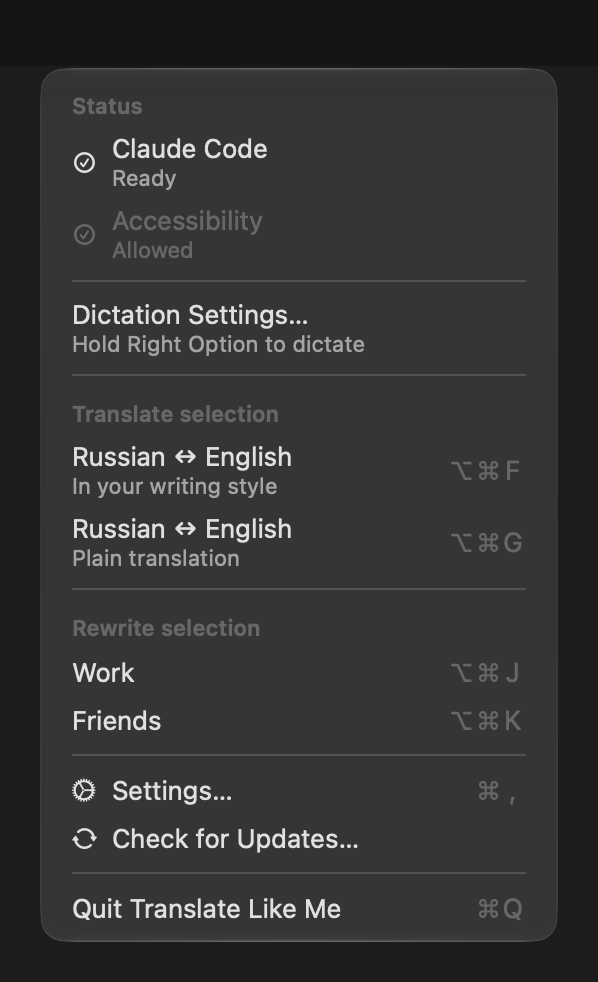
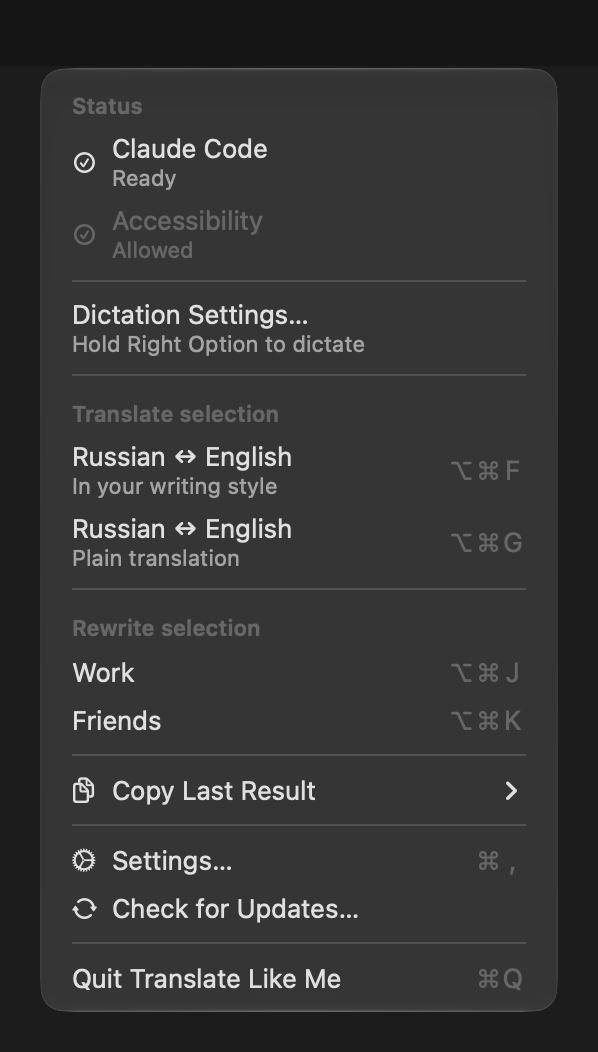
Add shared recovery for translation, rewrite and dictation results

diff --git a/Sources/TranslateLikeMe/StatusMenu.swift b/Sources/TranslateLikeMe/StatusMenu.swift
@@ -18,7 +18,13 @@ final class StatusMenu: NSObject, NSMenuDelegate {
     private var engineCheck: Task<Void, Never>?
     private weak var engineItem: NSMenuItem?
 
-    override init() {
+    private let results: LastResults
+    private let copyResult: (String) -> Void
+
+    init(results: LastResults = .shared,
+         copyResult: @escaping (String) -> Void = { SelectionService.copyToClipboard($0) }) {
+        self.results = results
+        self.copyResult = copyResult
         super.init()
         menu.delegate = self
         menu.autoenablesItems = false
@@ -56,9 +62,6 @@ final class StatusMenu: NSObject, NSMenuDelegate {
                                       comment: "Menu subtitle; the placeholder is a key, such as Right Option")
         }
         menu.addItem(dictate)
-        if dictation.lastResult != nil {
-            menu.addItem(item(String(localized: "Copy Last Dictation"), action: #selector(copyLastDictation)))
-        }
 
         // The app's key action: one item per language pair, showing its shortcut.
         menu.addItem(.separator())
@@ -79,6 +82,9 @@ final class StatusMenu: NSObject, NSMenuDelegate {
             menu.addItem(.sectionHeader(title: String(localized: "Rewrite selection")))
             for preset in presets { menu.addItem(rewriteItem(preset)) }
         }
+
+        menu.addItem(.separator())
+        menu.addItem(lastResultsItem())
 
         // macOS 26 gives Settings… its standard gear icon, so its group gets an
         // icon on every item (HIG: uniform treatment within a group).
@@ -226,8 +232,27 @@ final class StatusMenu: NSObject, NSMenuDelegate {
         }
     }
 
-    @objc private func copyLastDictation() {
-        if let text = DictationController.shared.lastResult { SelectionService.copyToClipboard(text) }
+    // Always show all three actions so availability never changes their order.
+    func lastResultsItem() -> NSMenuItem {
+        let parent = NSMenuItem(title: String(localized: "Copy Last Result"), action: nil, keyEquivalent: "")
+        parent.image = NSImage(systemSymbolName: "doc.on.doc", accessibilityDescription: nil)
+        showsImage(parent)
+        let submenu = NSMenu()
+        submenu.autoenablesItems = false
+        for kind in PopupController.ResultKind.allCases {
+            let row = item(kind.copyTitle, action: #selector(copyLastResult(_:)))
+            row.representedObject = kind
+            row.isEnabled = results[kind] != nil
+            submenu.addItem(row)
+        }
+        parent.submenu = submenu
+        return parent
+    }
+
+    @objc private func copyLastResult(_ sender: NSMenuItem) {
+        guard let kind = sender.representedObject as? PopupController.ResultKind,
+              let text = results[kind] else { return }
+        copyResult(text)
     }
 
     @objc private func requestAccessibility() { SelectionService.promptForAccessibility() }

diff --git a/Sources/TranslateLikeMe/DictationController.swift b/Sources/TranslateLikeMe/DictationController.swift
@@ -35,7 +35,9 @@ final class DictationController {
     private(set) var progress: Double = 0
     private(set) var level: Double = 0
     private(set) var error: String?
-    private(set) var lastResult: String?
+    var lastResult: String? { results[.dictation] }
+
+    @ObservationIgnored private let results: LastResults
 
     @ObservationIgnored private let engine: any DictationRecognizing
     @ObservationIgnored private let recorder: any DictationRecording
@@ -51,20 +53,21 @@ final class DictationController {
 
     init(enabled: Bool, model: DictationModel = .turbo,
          engine: any DictationRecognizing, recorder: any DictationRecording,
-         interaction: DictationInteraction,
+         interaction: DictationInteraction, results: LastResults = LastResults(),
          saveModel: @escaping (DictationModel) -> Void = { Settings.dictationModel = $0 }) {
         self.enabled = enabled
         self.model = model
         self.engine = engine
         self.recorder = recorder
         self.interaction = interaction
+        self.results = results
         self.saveModel = saveModel
     }
 
     private convenience init() {
         self.init(enabled: Settings.dictationEnabled, model: Settings.dictationModel,
                   engine: DictationEngine(), recorder: DictationRecorder(),
-                  interaction: .live)
+                  interaction: .live, results: .shared)
         let source = DispatchSource.makeMemoryPressureSource(eventMask: [.warning, .critical], queue: .main)
         source.setEventHandler { [weak self] in
             MainActor.assumeIsolated {
@@ -232,7 +235,7 @@ final class DictationController {
                         session.transition(.ready, for: id)
                         return
                     }
-                    lastResult = text
+                    results.record(text, kind: .dictation)
                     let delivered = try await interaction.deliver?(text) ?? false
                     guard session.accepts(id, in: .recognizing), !Task.isCancelled else { return }
                     if !delivered { interaction.showResult(text) }

diff --git a/Tests/TranslateLikeMeTests/LastResultsTests.swift b/Tests/TranslateLikeMeTests/LastResultsTests.swift
@@ -1,0 +1,37 @@
+import AppKit
+import XCTest
+@testable import TranslateLikeMe
+
+@MainActor
+final class LastResultsTests: XCTestCase {
+    func testMenuKeepsMissingResultsVisibleAndCopiesEachActionIndependently() {
+        _ = NSApplication.shared
+        let results = LastResults()
+        var copied: [String] = []
+        let menu = StatusMenu(results: results, copyResult: { copied.append($0) })
+        let empty = menu.lastResultsItem()
+        XCTAssertTrue(empty.isEnabled)
+        XCTAssertEqual(empty.submenu?.items.map(\.isEnabled), [false, false, false])
+        results.record("Перевод", kind: .translation)
+        results.record("Rewritten message", kind: .message)
+        results.record("Spoken notes", kind: .dictation)
+        results.record("New translation", kind: .translation)
+        let rows = menu.lastResultsItem().submenu!.items
+        XCTAssertEqual(rows.map(\.title), ["Translation", "Rewrite", "Dictation"])
+        XCTAssertEqual(rows.map(\.isEnabled), [true, true, true])
+        for row in rows {
+            XCTAssertTrue(NSApp.sendAction(row.action!, to: row.target, from: row))
+        }
+        XCTAssertEqual(copied, ["New translation", "Rewritten message", "Spoken notes"])
+        results.record(" \n", kind: .translation)
+        XCTAssertEqual(results[.translation], "New translation")
+        XCTAssertNil(LastResults()[.translation], "A new session has no persisted results")
+    }
+
+    func testPartialMenuDoesNotDependOnDictationBeingEnabled() {
+        let results = LastResults()
+        results.record("Translation only", kind: .translation)
+        let menu = StatusMenu(results: results, copyResult: { _ in })
+        XCTAssertEqual(menu.lastResultsItem().submenu?.items.map(\.isEnabled), [true, false, false])
+    }
+}

diff --git a/Tests/TranslateLikeMeTests/DictationControllerTests.swift b/Tests/TranslateLikeMeTests/DictationControllerTests.swift
@@ -63,15 +63,17 @@ final class DictationControllerTests: XCTestCase {
             let engine = ControlledDictationEngine()
             engine.transcript = "Привет, world!"
             let recorder = ControlledDictationRecorder()
+            let results = LastResults()
             var deliveries: [String] = []
             var shown: [String] = []
             let controller = DictationController(enabled: true, engine: engine, recorder: recorder,
                 interaction: DictationInteraction(endCapture: {}, showError: { _ in },
                                                   showResult: { shown.append($0) }, deliver: {
+                    XCTAssertEqual(results[.dictation], $0, "Retain before attempting delivery")
                     deliveries.append($0)
                     XCTAssertTrue(TranslationActivity.shared.isBusy, "Capture owns activity through delivery")
                     return delivered
-                }), saveModel: { _ in })
+                }), results: results, saveModel: { _ in })
             controller.restore()
             await controller.operation?.value
             controller.shortcutPressed()
@@ -79,7 +81,7 @@ final class DictationControllerTests: XCTestCase {
             await controller.operation?.value
             XCTAssertEqual(deliveries, ["Привет, world!"])
             XCTAssertEqual(shown, delivered ? [] : ["Привет, world!"])
-            XCTAssertEqual(controller.lastResult, "Привет, world!")
+            XCTAssertEqual(results[.dictation], "Привет, world!")
             XCTAssertEqual(controller.phase, .ready)
             XCTAssertFalse(TranslationActivity.shared.isBusy)
         }

diff --git a/Tests/TranslateLikeMeTests/SelectionWorkflowTests.swift b/Tests/TranslateLikeMeTests/SelectionWorkflowTests.swift
@@ -78,6 +78,27 @@ final class SelectionWorkflowTests: XCTestCase {
         XCTAssertEqual(access.state.withLock { $0.clipboard }, "original clipboard")
     }
 
+    @MainActor
+    func testCompletedResultIsRetainedBeforeBothReadAndUnreadDelivery() async throws {
+        for read in [false, true] {
+            let access = FakePasteAccess()
+            if read { access.state.withLock { $0.readDelay = .milliseconds(100) } }
+            let results = LastResults()
+            let subject = SelectionWorkflow(access: access, didProduceResult: { text in
+                XCTAssertEqual(access.state.withLock { $0.pastes.count }, 0)
+                await results.record(text, kind: .translation)
+            }, pause: { access.advance($0) })
+            let outcome = try await subject.run { _ in "Готовый перевод" }
+            XCTAssertEqual(outcome, read ? .pasted : .result("Готовый перевод"))
+            XCTAssertEqual(results[.translation], "Готовый перевод")
+            do {
+                _ = try await subject.run { _ in throw CancellationError() }
+                XCTFail("Failure must propagate")
+            } catch is CancellationError { }
+            XCTAssertEqual(results[.translation], "Готовый перевод")
+        }
+    }
+
     private func workflow(_ access: FakePasteAccess) -> SelectionWorkflow<FakePasteAccess> {
         SelectionWorkflow(access: access, pause: { access.advance($0) })
     }

diff --git a/Sources/TranslateLikeMe/SelectionWorkflow.swift b/Sources/TranslateLikeMe/SelectionWorkflow.swift
@@ -19,6 +19,7 @@ enum SelectionOutcome: Equatable, Sendable {
 
 struct SelectionWorkflow<Access: SelectionAccess>: Sendable {
     let access: Access
+    var didProduceResult: @Sendable (String) async -> Void = { _ in }
     var pause: @Sendable (Duration) async -> Void = { try? await Task.sleep(for: $0) }
 
     func run(transform: @Sendable (String) async throws -> String) async throws -> SelectionOutcome {
@@ -36,6 +37,7 @@ struct SelectionWorkflow<Access: SelectionAccess>: Sendable {
         defer { access.restore(original, ifUnchangedSince: mark) }
         let result = try await transform(selection)
         try Task.checkCancellation()
+        await didProduceResult(result)
         let read = try await PasteDelivery(access: access, pause: pause)
             .deliver(result, restoring: original, ifUnchangedSince: mark)
         return read ? .pasted : .result(result)

diff --git a/Sources/TranslateLikeMe/AppDelegate.swift b/Sources/TranslateLikeMe/AppDelegate.swift
@@ -24,6 +24,15 @@ final class AppDelegate: NSObject, NSApplicationDelegate, NSWindowDelegate {
         Settings.moveStyleIntoPairs()
         Settings.removeAPIKeys()
 
+        // Launch-only synthetic results for native captures; never read user text.
+        if Bundle.main.bundleIdentifier == "com.wiltodelta.translatelikeme.dev",
+           let preview = UserDefaults.standard.string(forKey: "lastResultsPreview") {
+            LastResults.shared.record("The translation is ready.", kind: .translation)
+            if preview == "all" {
+                LastResults.shared.record("The rewritten message is ready.", kind: .message)
+                LastResults.shared.record("These are spoken notes.", kind: .dictation)
+            }
+        }
         setUpStatusItem()
 
         // Swap the icon when a translation starts or finishes.

diff --git a/Sources/TranslateLikeMe/TranslationController.swift b/Sources/TranslateLikeMe/TranslationController.swift
@@ -78,7 +78,10 @@ final class TranslationController {
             let stopMonitoring = activity.monitor()
             defer { stopMonitoring() }
             let workflow = SelectionWorkflow(access: LiveSelectionAccess(pid: pid, activity: activity,
-                                                                        copyKey: copyKey, pasteKey: pasteKey))
+                                                                        copyKey: copyKey, pasteKey: pasteKey),
+                                             didProduceResult: { result in
+                                                 await LastResults.shared.record(result, kind: kind)
+                                             })
             do {
                 switch try await workflow.run(transform: transform) {
                 case .noSelection:

diff --git a/Sources/TranslateLikeMe/PopupController.swift b/Sources/TranslateLikeMe/PopupController.swift
@@ -100,10 +100,18 @@ final class PopupController {
 
     // What a result is, for the popup's header: whole sentences, since many
     // languages agree the verb ("copied") with the noun.
-    enum ResultKind {
+    enum ResultKind: CaseIterable, Hashable, Sendable {
         case translation
         case message
         case dictation
+
+        var copyTitle: String {
+            switch self {
+            case .translation: String(localized: "Translation")
+            case .message: String(localized: "Rewrite")
+            case .dictation: String(localized: "Dictation")
+            }
+        }
 
         var header: String {
             switch self {

diff --git a/Sources/TranslateLikeMe/LastResults.swift b/Sources/TranslateLikeMe/LastResults.swift
@@ -1,0 +1,16 @@
+import Foundation
+
+// One completed result per action, in memory for this app session only.
+// Record before delivery so a failed paste cannot lose generated text.
+@MainActor
+final class LastResults {
+    static let shared = LastResults()
+    private var values: [PopupController.ResultKind: String] = [:]
+
+    subscript(kind: PopupController.ResultKind) -> String? { values[kind] }
+
+    func record(_ text: String, kind: PopupController.ResultKind) {
+        guard !text.trimmingCharacters(in: .whitespacesAndNewlines).isEmpty else { return }
+        values[kind] = text
+    }
+}

diff --git a/docs/dictation.md b/docs/dictation.md
@@ -205,7 +205,20 @@ newer user copy is never replaced. Without a read within 3 s the result shows wi
 Copy, and no second paste is posted. The Paste key code follows the user's
 ASCII-capable keyboard layout (`KeyboardLayout`, shared with translation's Copy
 and Paste), so Dvorak still sends Cmd+V. The most recent result
-remains available through Copy Last Dictation. Since October 20, 2026,
+remains available through Copy Last Result > Dictation, alongside the separate
+latest Translation and Rewrite results. These session-only results are recorded
+before delivery, so a paste failure cannot lose the generated text.
+
+Recovery-menu verification (October 21, 2026) rendered empty, partial and full
+states in the signed development bundle in both appearances, using synthetic
+launch-only results. English menu bounds were 259 x 472 pt, 353 x 472 pt with
+the submenu open, at 2x capture scale; all three result rows remained visible
+without clipping. German also fit at 315 x 472 pt, 423 x 472 pt with the
+submenu. All three native Copy commands returned their own synthetic result in
+both appearances (6 of 6), with the complete clipboard restored after each check.
+These captures verify recovery controls, not speech recognition.
+Reproduce them with `CAPTURE_RESULTS_ONLY=1 CAPTURE_OUT=<dir> ./capture-screenshots.sh`.
+Since October 20, 2026,
 translation and Rewrite deliver through the same `PasteDelivery`, without AX
 field evidence; they still require a real text selection to copy and the
 original process to keep focus with no typing, clicks or app switches. A

diff --git a/README.md b/README.md
@@ -125,6 +125,11 @@ signs the app ad hoc, so macOS asks for Accessibility again after every rebuild.
 
 ## Usage
 
+The **Copy Last Result** submenu keeps the latest Translation, Rewrite and
+Dictation separately, even after successful insertion. Unavailable results are
+dimmed. Results stay in memory until you quit; errors leave earlier results
+available. Copying is explicit and does not run the engine again.
+
 - For dictation, turn on **Enable dictation** under **Settings > Dictation**.
   First setup downloads the model; later recognition works locally. The default
   hold key is **Right Option**. Hold it while speaking, then release to recognize
@@ -132,7 +137,7 @@ signs the app ad hoc, so macOS asks for Accessibility again after every rebuild.
   Option instead. Other input during the hold cancels dictation, so an Option
   combination does not insert speech. There is no tap-to-toggle mode or menu
   command to start recording. Recording is bounded to five minutes. The menu
-  offers **Copy Last Dictation** after a result, without a recording history.
+  offers **Copy Last Result > Dictation** to recover the latest transcript.
   The microphone is ready between holds without recording, so capture
   starts about 0.2 s after the press, measured on the built-in microphone and on
   AirPods. While you hold the key, system sound output is muted, then restored.
